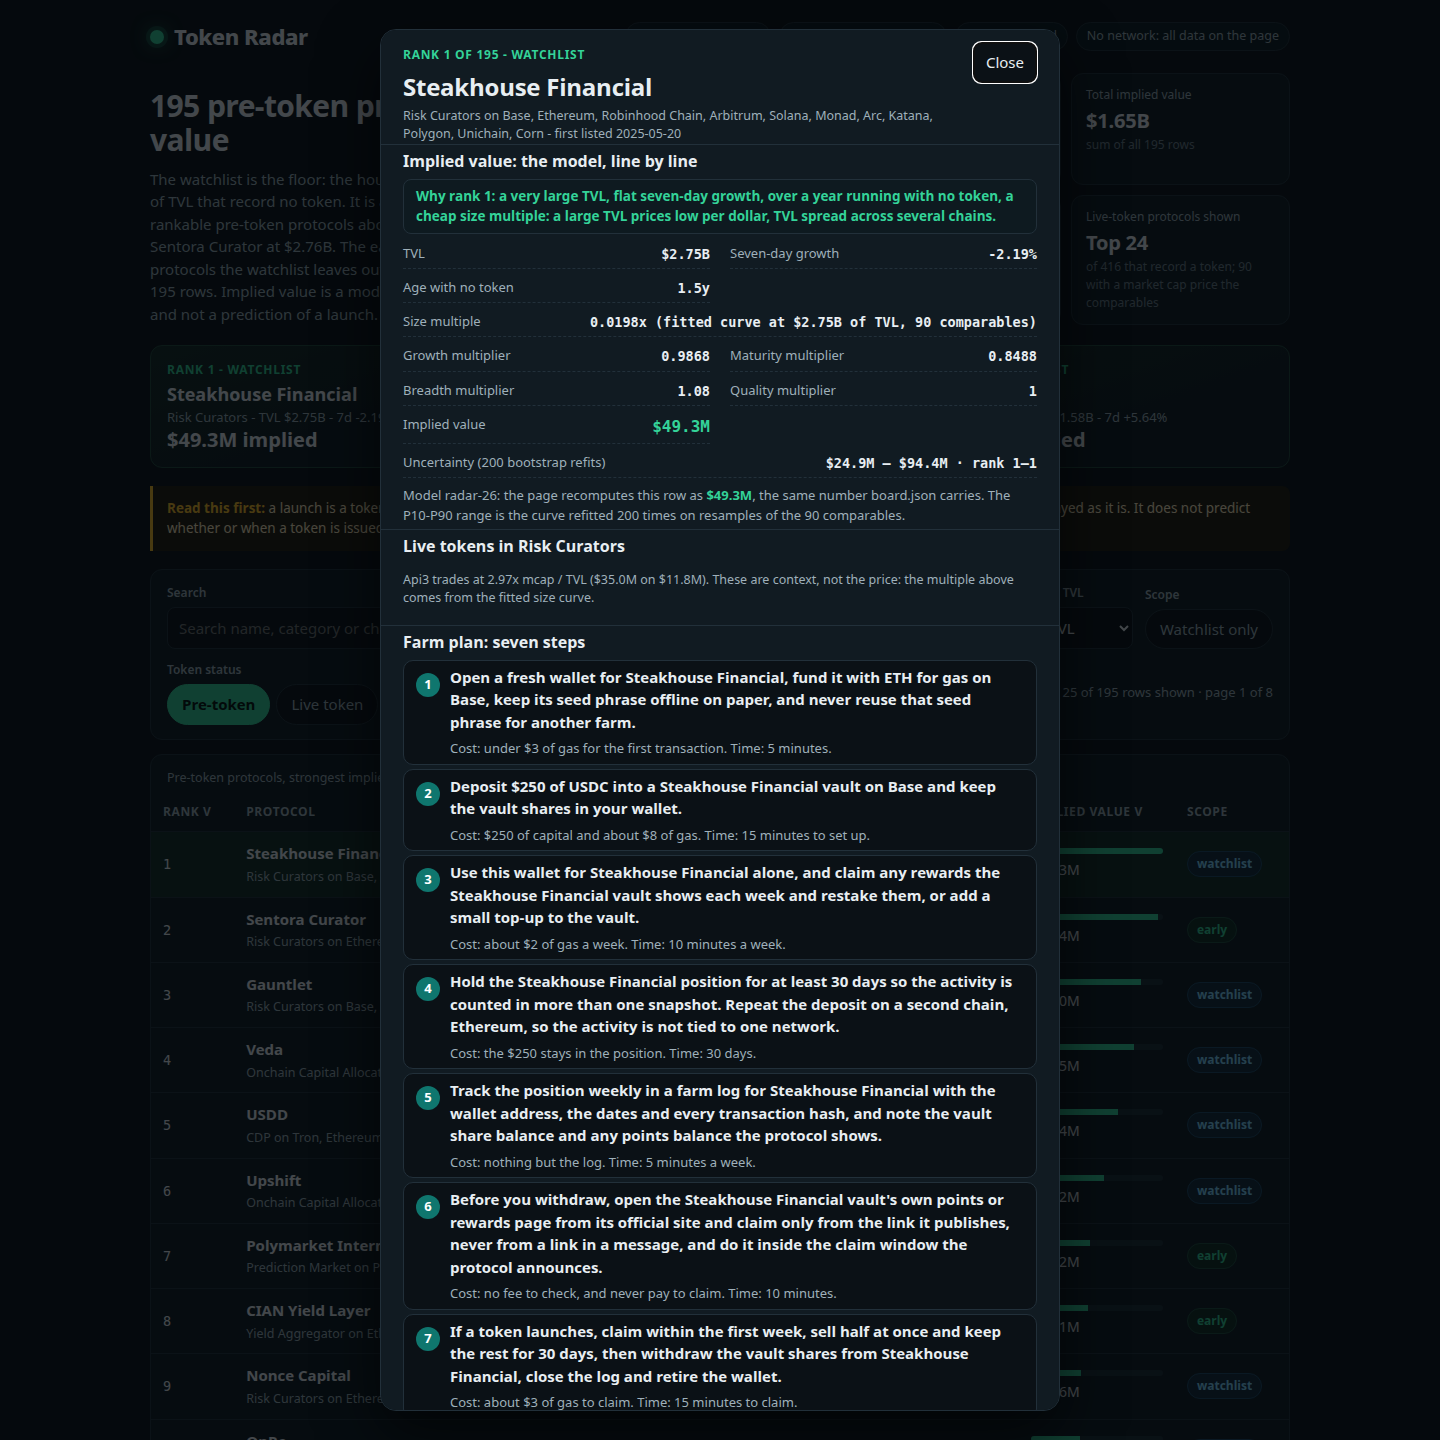
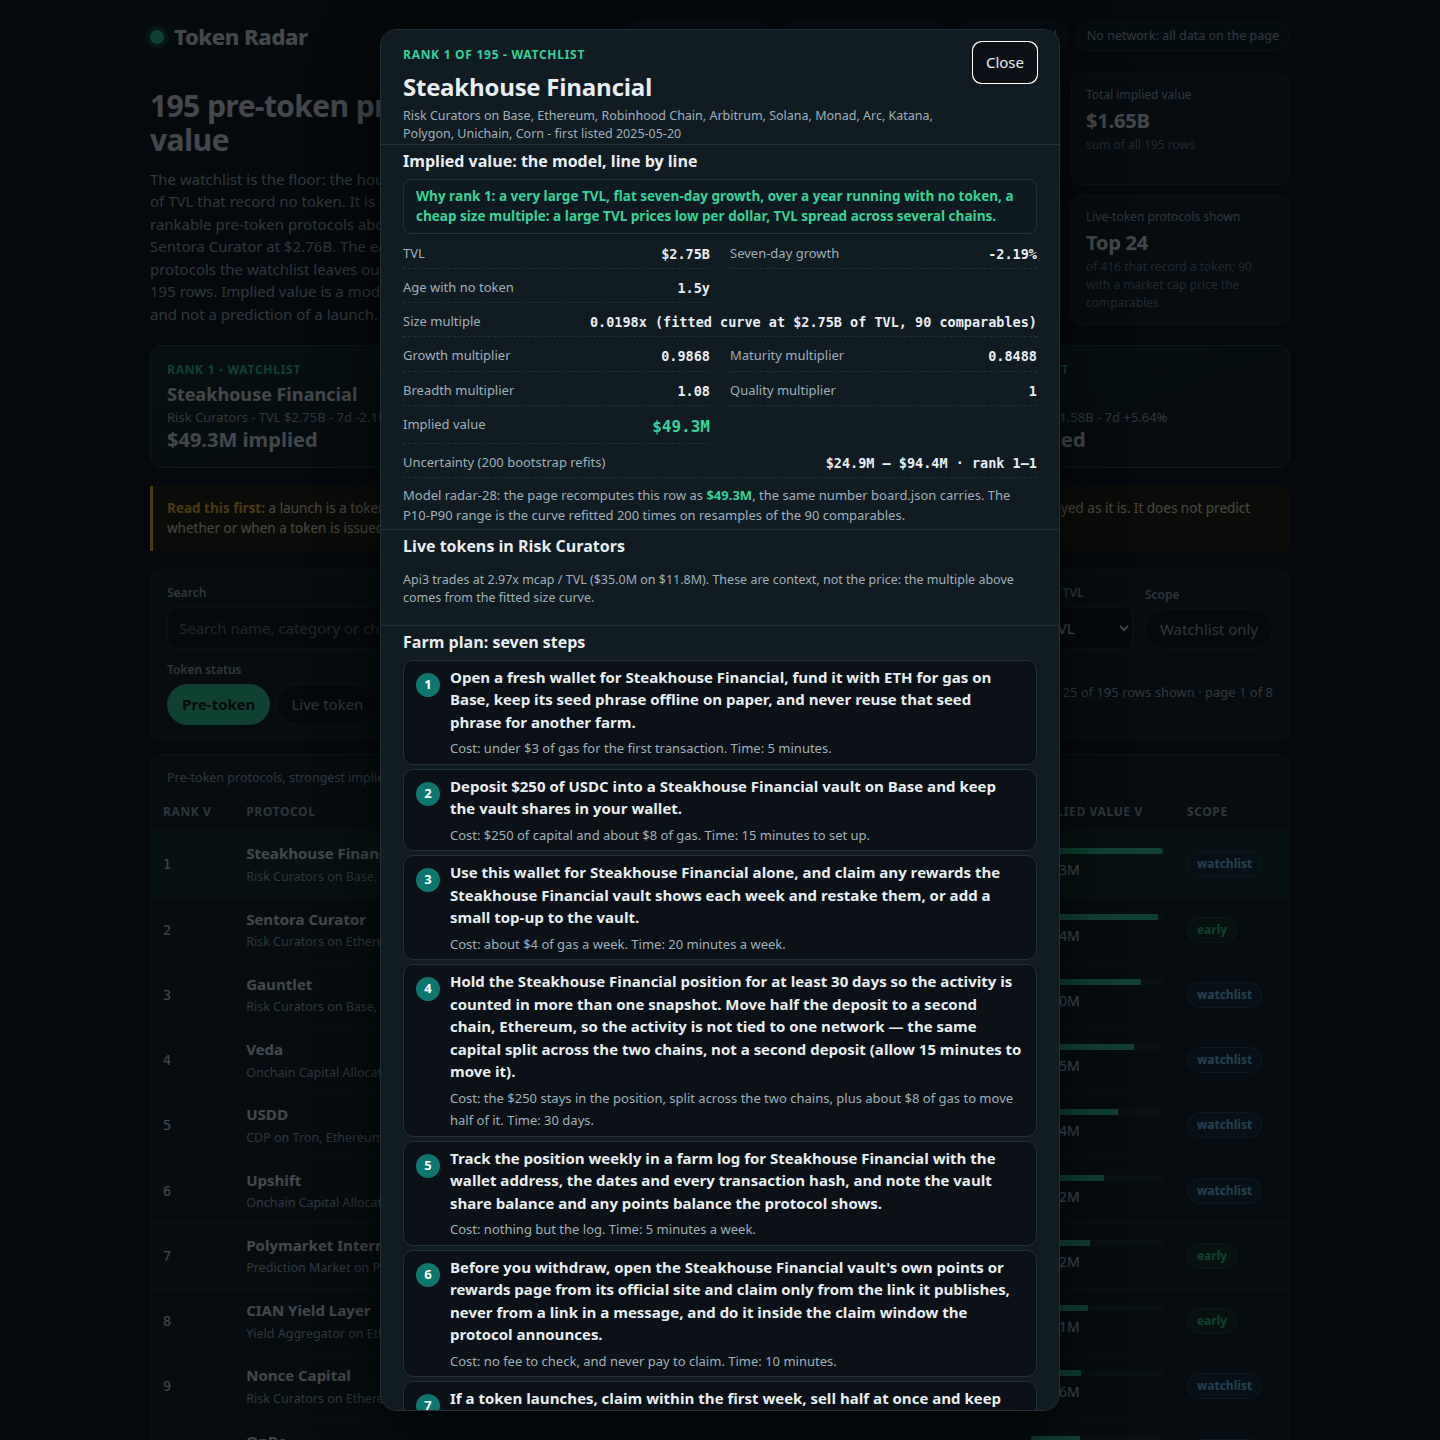
Token Radar radar-28: retake screenshots with headless Chrome at 1440x1440
Board shows ranks 1-9 with the radar-28 label; detail shows Steakhouse
Financial with the new step-4 wording and the radar-28 model line;
filtered shows Lending, 16 of 195 rows. README no longer claims the
screenshots are stale. Board byte-identical; dossier 1,391,353 B.

Changed region(s): [[0.2812, 0.6875, 0.7188, 1.0]]

diff --git a/README.md b/README.md
@@ -55,12 +55,7 @@ and its paired bootstrap interval covers zero while the mean absolute
 log error gets worse, so it is noise on the median, not a better fit.
 An ablation confirms the factors the curve carries: the curve with no
 growth, maturity, breadth or quality factor is x3.62 / x2.14 / x3.58,
-and with growth alone x3.36 / x2.06 / x3.46. The screenshots were not
-retaken this round (no live browser on this machine): the detail
-screenshot still shows Steakhouse Financial with the old step-4
-wording and the radar-26 label, so it needs a browser retake before
-resubmission. An out-of-sample win on the snapshot's own tokens is
-evidence, not a guaranteed prize.
+and with growth alone x3.36 / x2.06 / x3.46. The screenshots were retaken this round with headless Chrome at 1440x1440: the board shows ranks 1-9 with the radar-28 label, the detail view shows Steakhouse Financial with the new step-4 wording ("Move half the deposit to a second chain") and the radar-28 model line, and the filtered view shows Lending, 16 of 195 rows. An out-of-sample win on the snapshot's own tokens is evidence, not a guaranteed prize.
 
 ## The model (radar-27)
 
